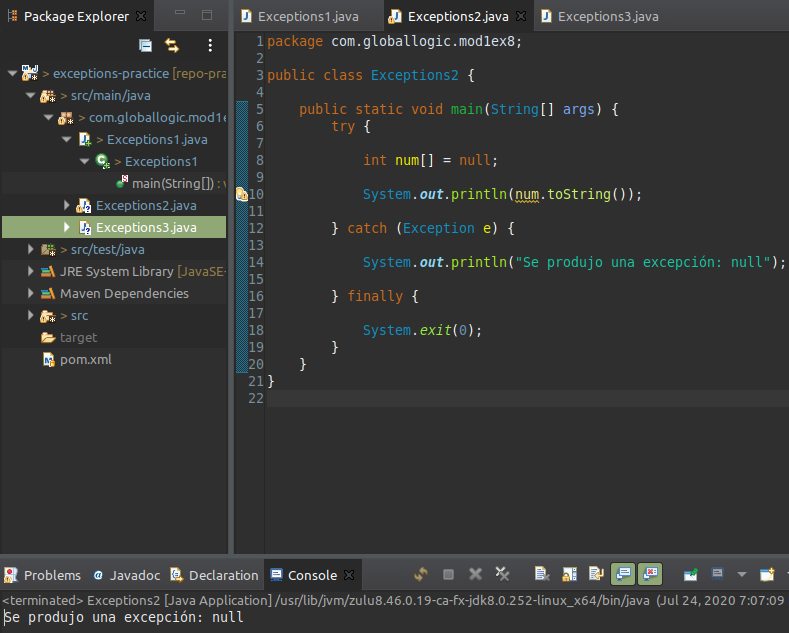
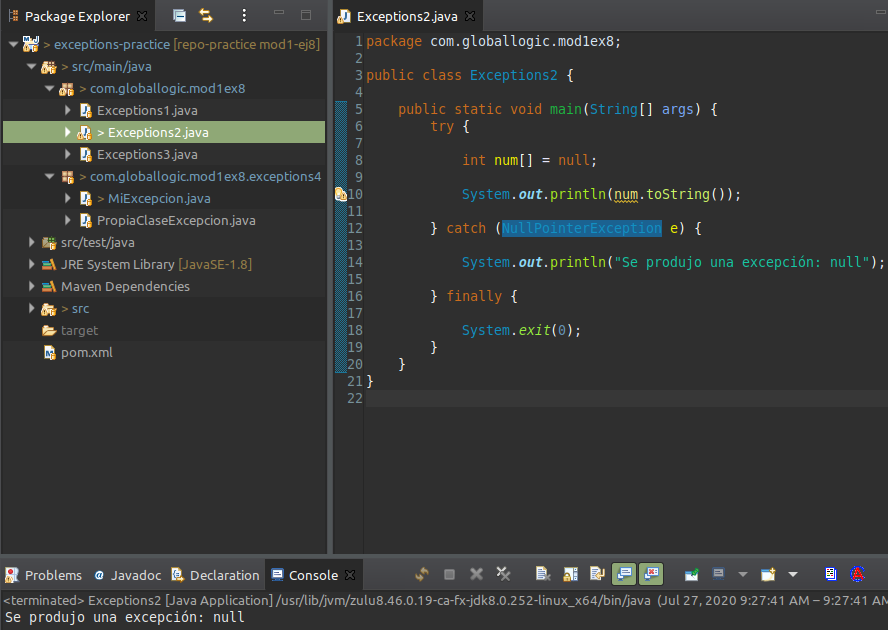
fixed ex 2 and 4

diff --git a/modulo001/ejercicio8/exceptions-practice/src/main/java/com/globallogic/mod1ex8/exceptions4/MiExcepcion.java b/modulo001/ejercicio8/exceptions-practice/src/main/java/com/globallogic/mod1ex8/exceptions4/MiExcepcion.java
@@ -1,9 +1,13 @@
 package com.globallogic.mod1ex8.exceptions4;
 
-public class MiExcepcion extends Exception {
+public class MiExcepcion extends Throwable {
 	private static final long serialVersionUID = 3038497708495323755L;
 	private String errorMessage = "mi excepción";
 		
+	public MiExcepcion () {
+		this.showErrorMessage();
+	}
+	
 	private String getErrorMessage() {
 		return errorMessage;
 	}

diff --git a/modulo001/ejercicio8/exceptions-practice/src/main/java/com/globallogic/mod1ex8/Exceptions2.java b/modulo001/ejercicio8/exceptions-practice/src/main/java/com/globallogic/mod1ex8/Exceptions2.java
@@ -9,7 +9,7 @@ public class Exceptions2 {
     	      
     		System.out.println(num.toString());
  		
-    	} catch (Exception e) {
+    	} catch (NullPointerException e) {
     		
     		System.out.println("Se produjo una excepción: null");
     	

diff --git a/modulo001/ejercicio8/exceptions-practice/src/main/java/com/globallogic/mod1ex8/exceptions4/PropiaClaseExcepcion.java b/modulo001/ejercicio8/exceptions-practice/src/main/java/com/globallogic/mod1ex8/exceptions4/PropiaClaseExcepcion.java
@@ -8,7 +8,7 @@ public class PropiaClaseExcepcion {
     		int money = 0;
     		
     		if (money - 1 < 0) {
-    			new MiExcepcion().showErrorMessage();
+    			throw new MiExcepcion();
     		}
  		
     	} finally {
